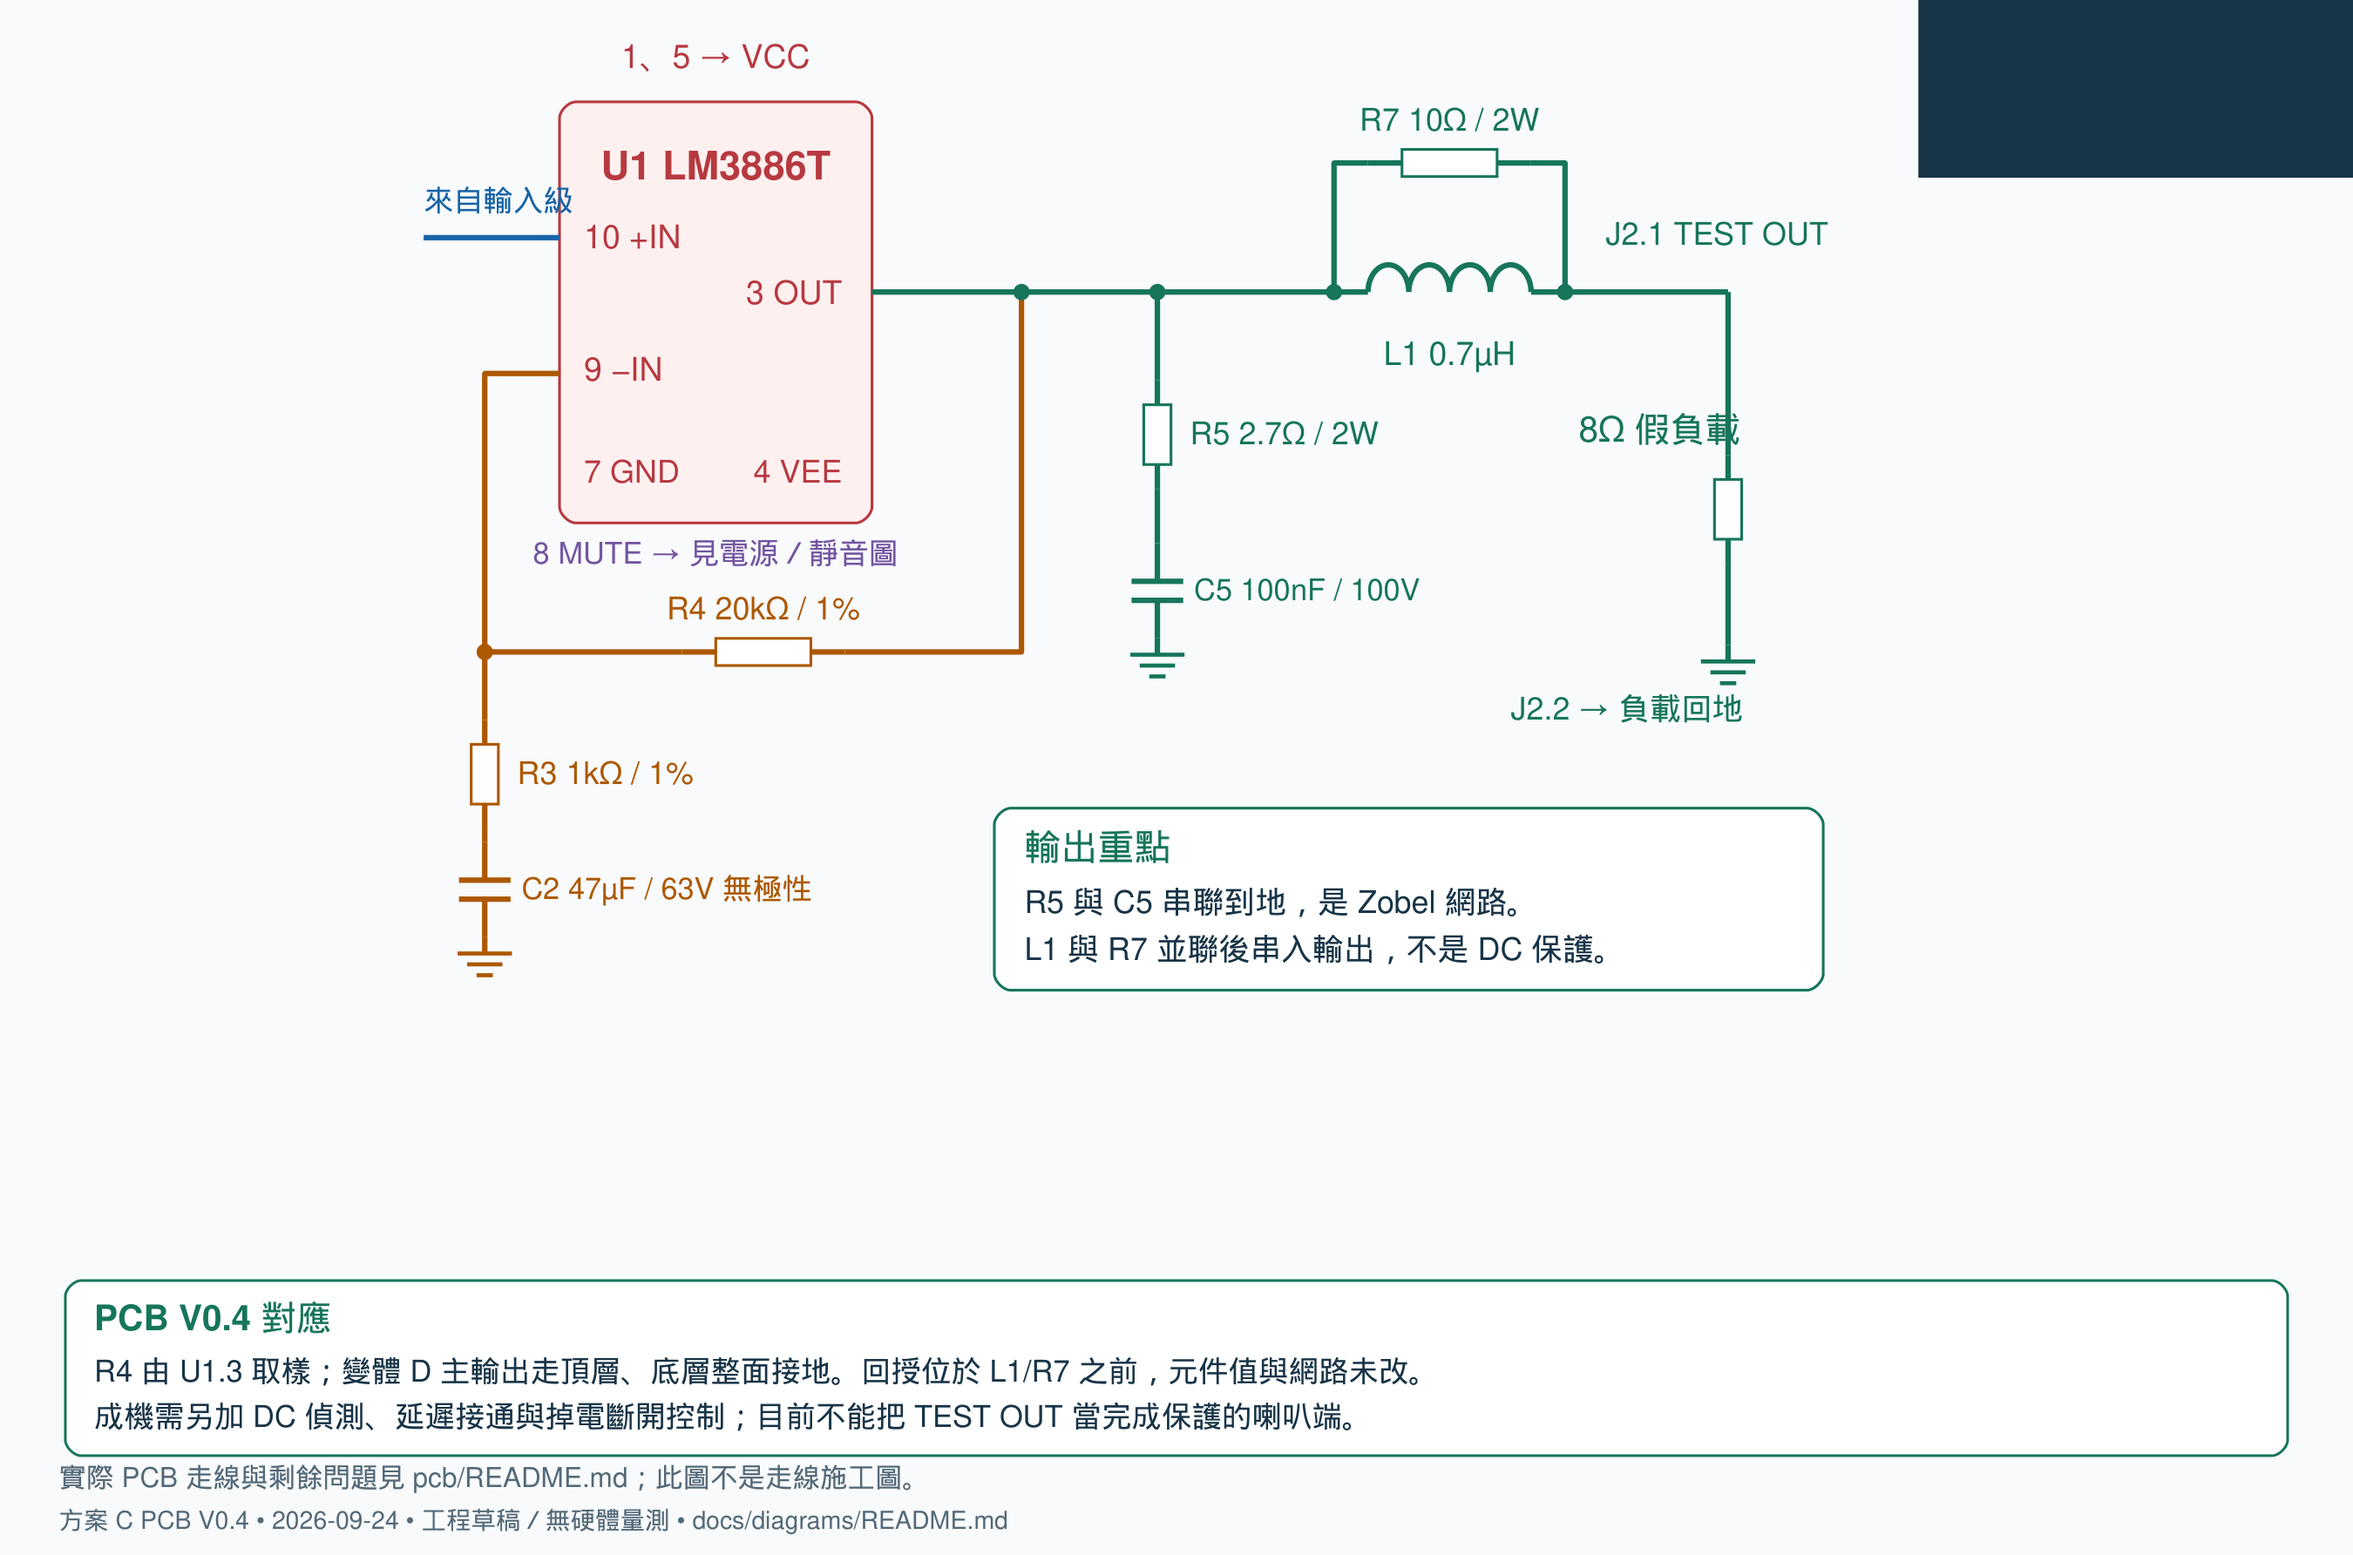
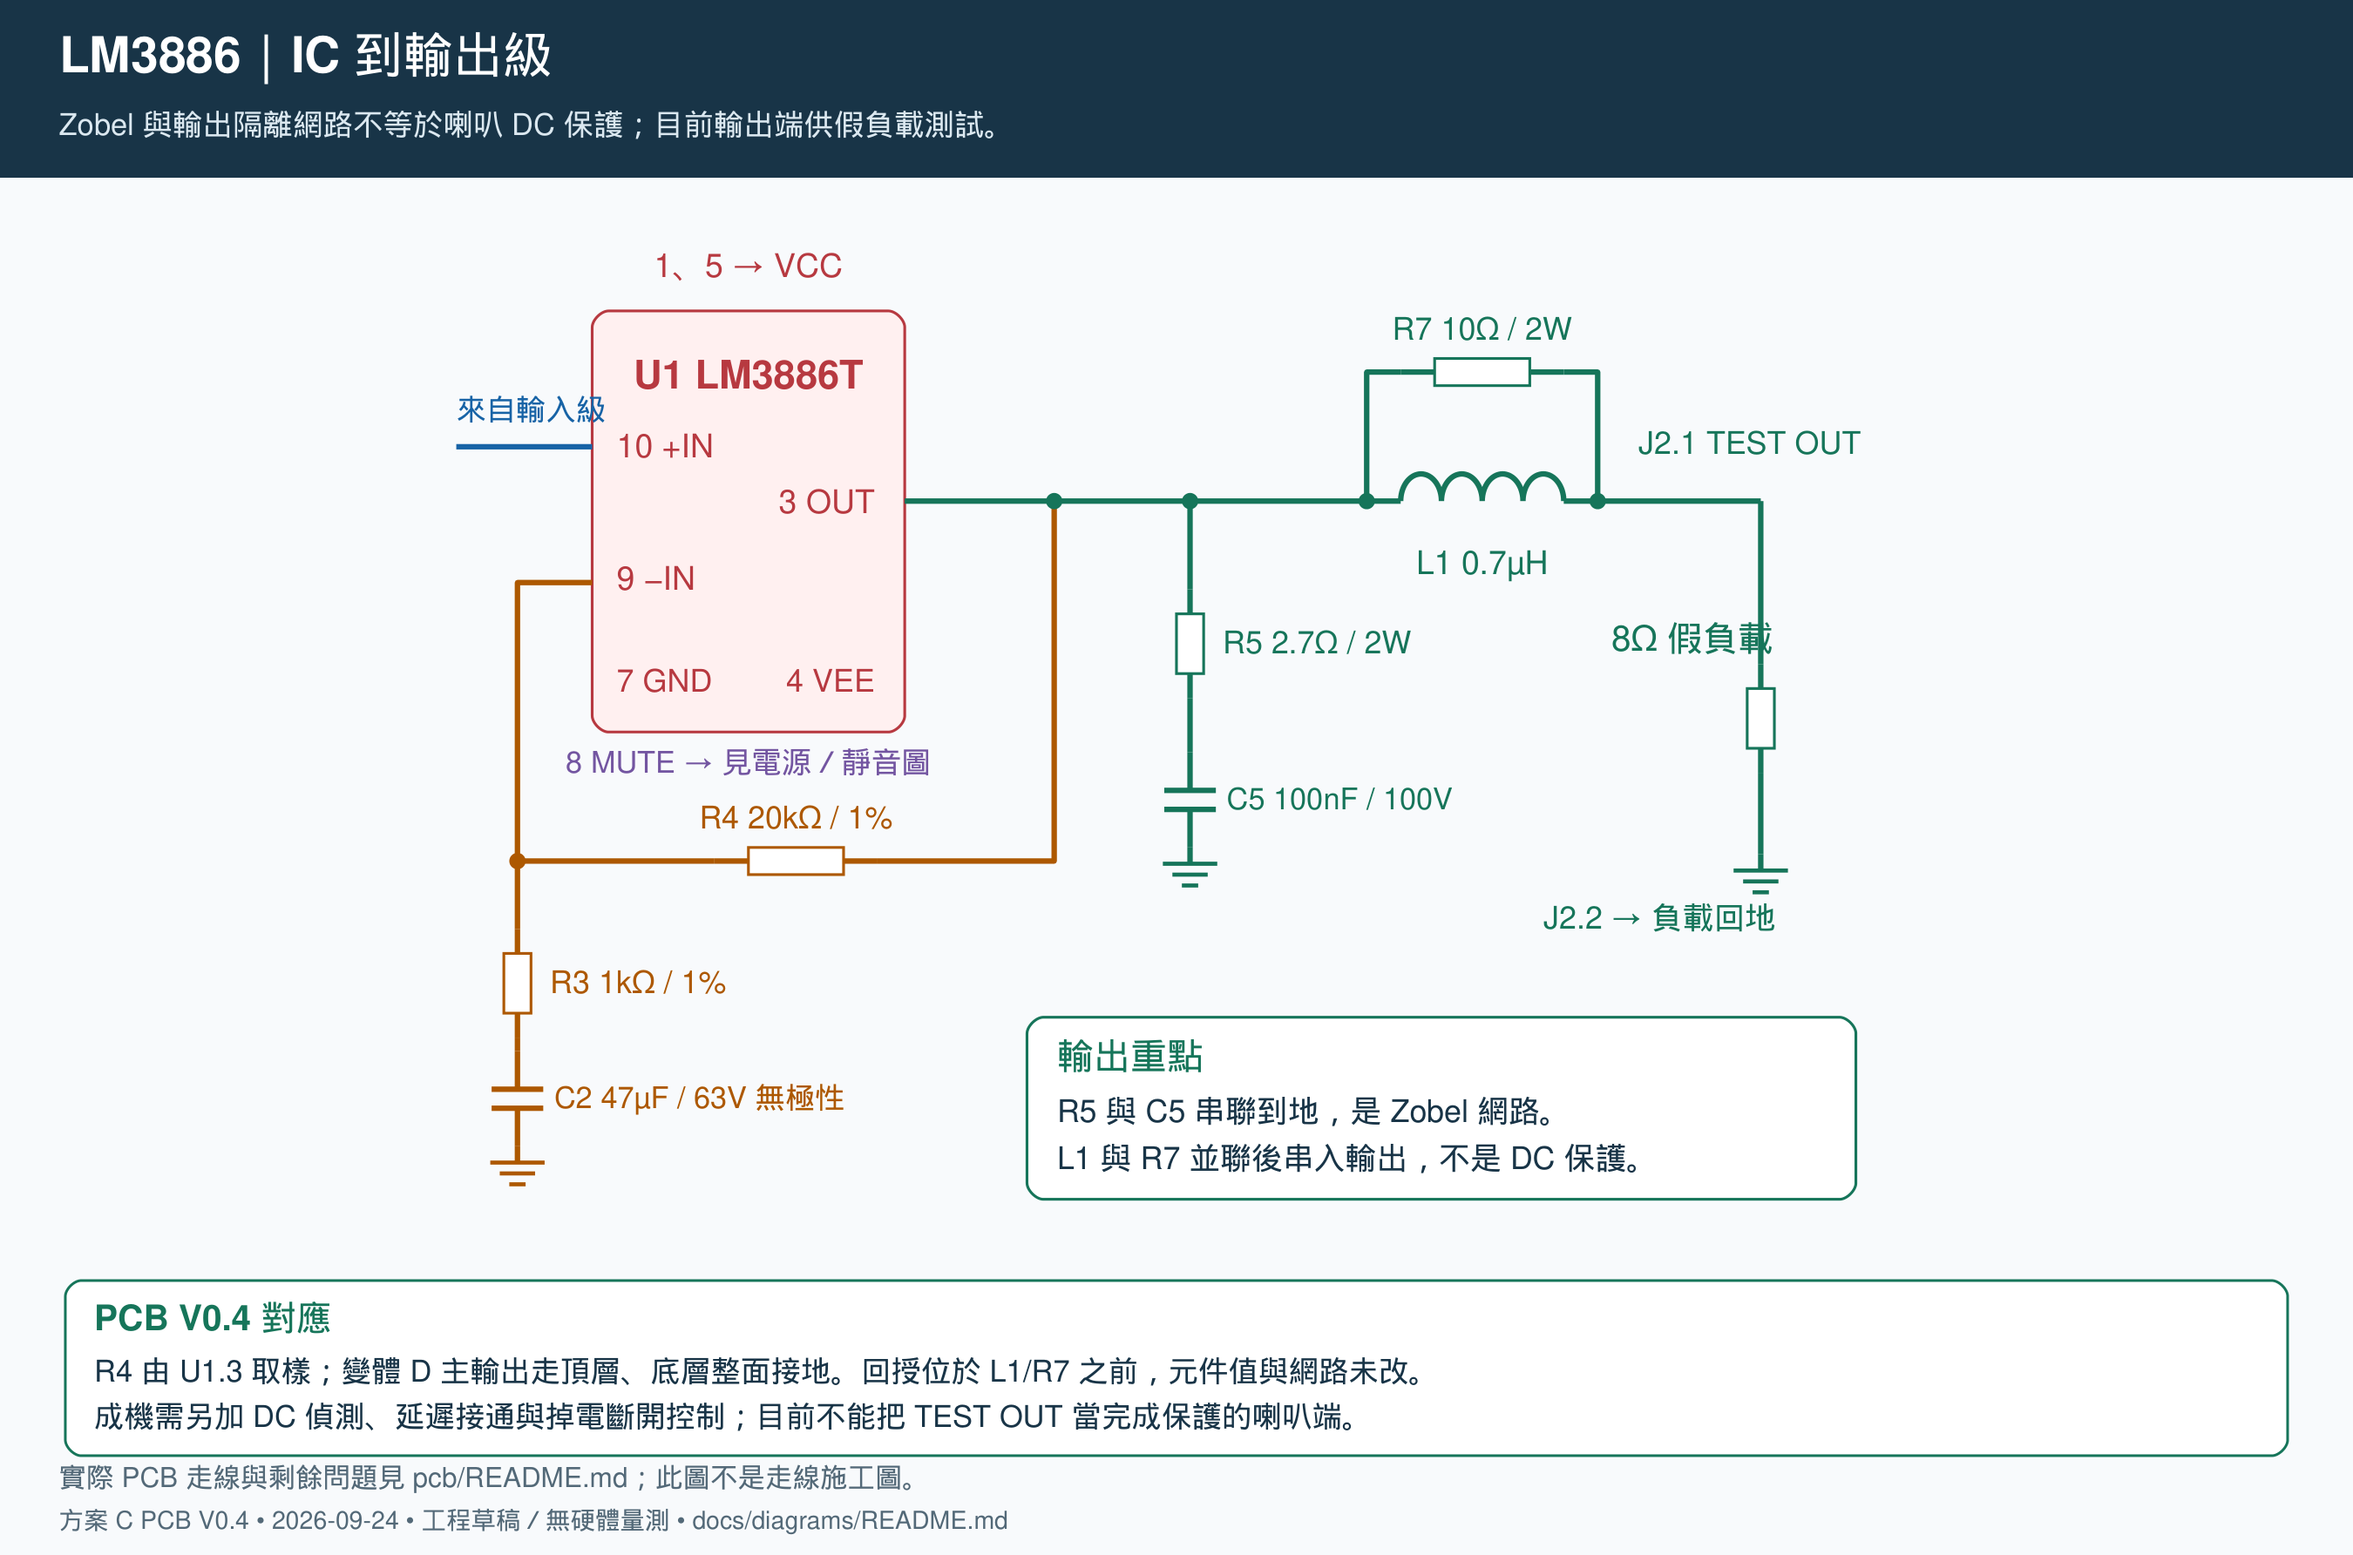
docs: 修正輸入級／IC→輸出級導讀圖的 PyMuPDF 巢狀 SVG 渲染錯誤
embed() 改用 translate/scale 群組並移除子圖底色（PyMuPDF 不支援巢狀
viewBox 與 clip-path）；兩張 PNG 重建，sources.json 重綁。

Claude-Session: https://claude.ai/code/session_01DerP5HjoiFxZ4hz4f3ygqt

diff --git a/tools/build_diagrams.py b/tools/build_diagrams.py
@@ -61,7 +61,7 @@ class SVG:
 
 def signal(mode='all'):
     d=SVG(1800,870)
-    d.text(80,65,'左聲道 U1；右聲道 U2 相同，R/C 編號加 100，L1→L2、J1/J2→J3/J4。',25)
+    if mode=='all':d.text(80,65,'左聲道 U1；右聲道 U2 相同，R/C 編號加 100，L1→L2、J1/J2→J3/J4。',25)
     d.rect(800,160,230,310,'#fff0f0',RED)
     d.text(915,217,'U1 LM3886T',29,RED,'bold','middle')
     d.text(818,268,'10  +IN',24,RED);d.text(818,365,'9   −IN',24,RED)
@@ -117,8 +117,15 @@ def signal(mode='all'):
         d.panel(1120,680,610,'輸出重點',['R5 與 C5 串聯到地，是 Zobel 網路。','L1 與 R7 並聯後串入輸出，不是 DC 保護。'],GREEN)
     return d
 
+_clip=[0]
 def embed(d,other,x,y,w,h,view=None):
-    d.items.append(f'<svg x="{x}" y="{y}" width="{w}" height="{h}" overflow="hidden" viewBox="{view or f"0 0 {other.w} {other.h}"}">'+''.join(other.items)+'</svg>')
+    # Nested <svg viewBox> is mis-rendered by PyMuPDF (drawn unscaled at the origin), so place the child
+    # with an explicit clip + translate/scale group that reproduces xMidYMid-meet behaviour.
+    vx,vy,vw,vh=[float(v) for v in (view or f'0 0 {other.w} {other.h}').split()]
+    sc=min(w/vw,h/vh);tx=x+(w-vw*sc)/2-vx*sc;ty=y+(h-vh*sc)/2-vy*sc;_clip[0]+=1;cid=f'clip{_clip[0]}'
+    # PyMuPDF also ignores clip-path, so drop the child's full-canvas background instead of relying on the clip.
+    body=[i for i in other.items if not i.startswith('<rect width=')]
+    d.items.append(f'<rect x="{x}" y="{y}" width="{w}" height="{h}" fill="#f8fafc"/><clipPath id="{cid}"><rect x="{x}" y="{y}" width="{w}" height="{h}"/></clipPath><g clip-path="url(#{cid})"><g transform="translate({tx:.3f} {ty:.3f}) scale({sc:.5f})">'+''.join(body)+'</g></g>')
 
 def supply(d,y=0):
     # Exact dual-bridge topology; no AC connection between the isolated windings.

diff --git a/CHANGELOG.md b/CHANGELOG.md
@@ -16,6 +16,12 @@
 
 ---
 
+## 2026-09-24（深夜）：修正兩張導讀圖的 PyMuPDF 渲染錯誤
+
+- `lm3886_input_stage.png`／`lm3886_ic_to_output.png` 前一筆 commit 的版本是壞的：PyMuPDF 不支援巢狀 `<svg viewBox>` 與 `clip-path`，子圖被畫在原點且蓋住標題。`build_diagrams.py` 的 `embed()` 改成明確的 translate/scale 群組並去掉子圖底色，兩張圖重建；其餘圖不受影響。
+
+---
+
 ## 2026-09-24（深夜）：單聲道完整接線圖、電源板原理圖預覽同步、導讀圖重建
 
 - 使用者指出原理圖看起來不完整：KiCad 圖以網路標籤代替畫線，且電源板預覽 PNG／PDF 是改 J204／snubber 之前匯出的。重新匯出 `electrical/preview/internal-psu-v02.pdf/.png`（ERC 0）。
